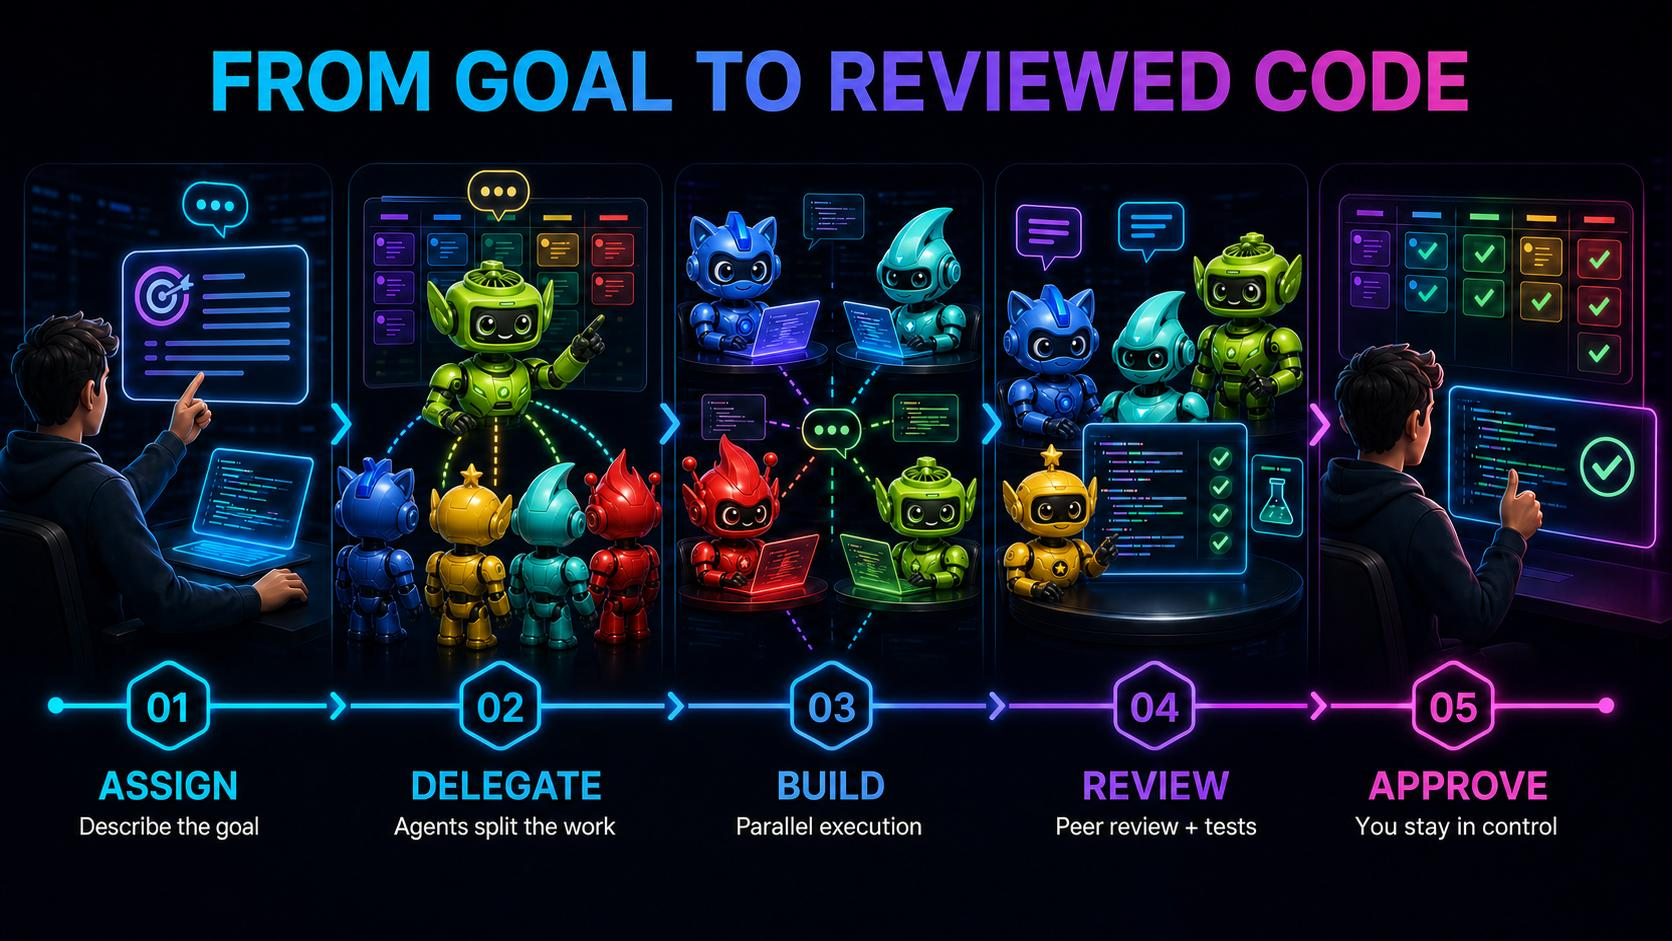
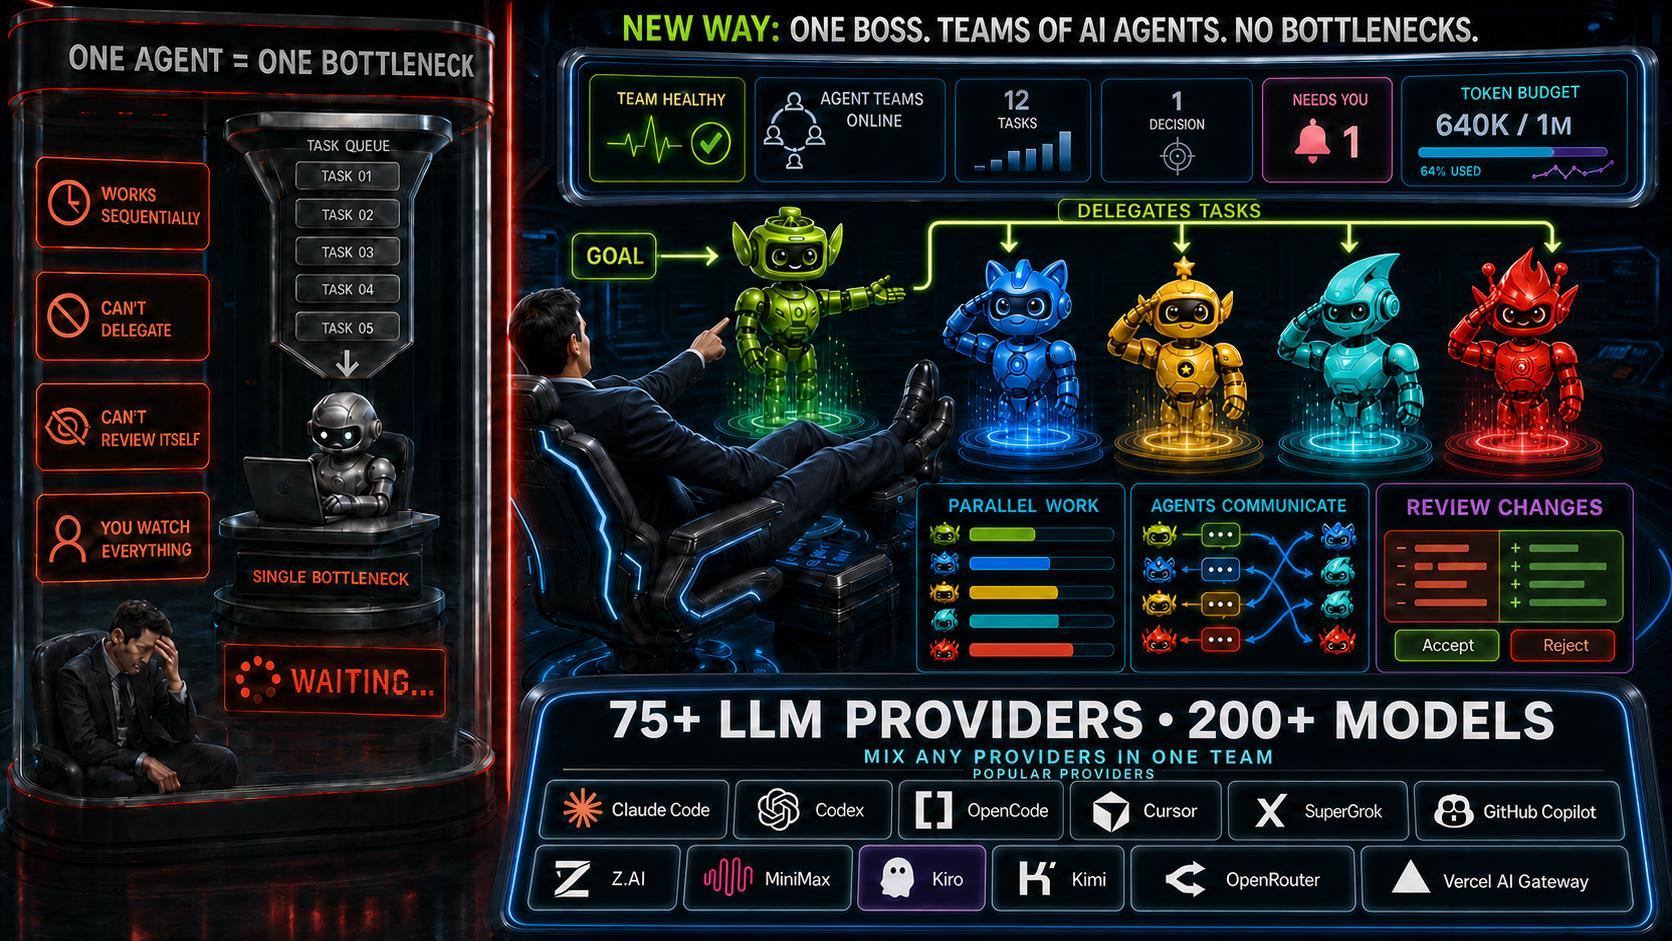
feat(landing): refine hero proof presentation

diff --git a/landing/assets/styles/cyberpunk-hero.scss b/landing/assets/styles/cyberpunk-hero.scss
@@ -455,14 +455,22 @@
 
 .cyber-hero__providers {
   width: min(570px, 100%);
-  margin: 0 0 20px;
+  margin: 0 0 16px;
+}
+
+.cyber-hero__providers-heading {
+  display: flex;
+  align-items: center;
+  justify-content: space-between;
+  gap: 12px;
+  margin-bottom: 8px;
 }
 
 .cyber-hero__providers-label {
   display: flex;
   align-items: center;
   gap: 8px;
-  margin: 0 0 8px;
+  margin: 0;
   color: color-mix(in srgb, var(--cyber-text) 74%, transparent);
   font-family: var(--at-font-mono);
   font-size: 0.67rem;
@@ -482,10 +490,48 @@
   content: "";
 }
 
+.cyber-hero__provider-coverage {
+  display: flex;
+  align-items: center;
+  flex: 0 0 auto;
+  gap: 10px;
+  margin: 0;
+}
+
+.cyber-hero__provider-coverage-item {
+  display: flex;
+  align-items: baseline;
+  gap: 4px;
+  padding-left: 10px;
+  border-left: 1px solid rgba(0, 234, 255, 0.2);
+  font-family: var(--at-font-mono);
+  line-height: 1;
+}
+
+.cyber-hero__provider-coverage-item dt {
+  color: var(--cyber-cyan);
+  font-size: 0.92rem;
+  font-weight: 900;
+  text-shadow: 0 0 12px rgba(0, 234, 255, 0.34);
+}
+
+.cyber-hero__provider-coverage-item dd {
+  margin: 0;
+  color: color-mix(in srgb, var(--cyber-text) 64%, transparent);
+  font-size: 0.56rem;
+  font-weight: 700;
+  letter-spacing: 0.08em;
+  text-transform: uppercase;
+}
+
 .cyber-hero__provider-list {
-  display: grid;
-  grid-template-columns: repeat(3, minmax(0, 1fr));
-  gap: 7px;
+  display: flex;
+  align-items: center;
+  flex-wrap: wrap;
+  gap: 5px;
+  margin: 0;
+  padding: 0;
+  list-style: none;
 }
 
 .cyber-hero__provider {
@@ -495,12 +541,13 @@
   display: flex;
   align-items: center;
   min-width: 0;
-  min-height: 36px;
-  gap: 7px;
-  padding: 5px 8px;
+  min-height: 28px;
+  flex: 0 0 auto;
+  gap: 5px;
+  padding: 3px 8px 3px 7px;
   overflow: hidden;
   border: 1px solid color-mix(in srgb, var(--provider-accent) 27%, rgba(255, 255, 255, 0.1));
-  border-radius: 9px;
+  border-radius: 999px;
   background:
     linear-gradient(135deg, color-mix(in srgb, var(--provider-accent) 11%, transparent), transparent 62%),
     rgba(4, 10, 25, 0.5);
@@ -515,8 +562,8 @@
 
 .cyber-hero__provider::after {
   position: absolute;
-  inset: 0 auto 0 0;
-  width: 2px;
+  inset: 6px auto 6px 0;
+  width: 1px;
   background: var(--provider-accent);
   box-shadow: 0 0 9px var(--provider-accent);
   content: "";
@@ -526,22 +573,22 @@
 .cyber-hero__provider-icon {
   display: grid;
   flex: 0 0 auto;
-  width: 22px;
-  height: 22px;
+  width: 18px;
+  height: 18px;
   place-items: center;
   color: var(--provider-accent);
   filter: drop-shadow(0 0 7px color-mix(in srgb, var(--provider-accent) 42%, transparent));
 }
 
 .cyber-hero__provider-icon svg {
-  width: 18px;
-  height: 18px;
+  width: 15px;
+  height: 15px;
 }
 
 .cyber-hero__provider-name {
   min-width: 0;
   color: var(--cyber-text);
-  font-size: 0.75rem;
+  font-size: 0.67rem;
   font-weight: 800;
   line-height: 1.1;
   white-space: nowrap;
@@ -2057,39 +2104,63 @@
   }
 
   .cyber-hero__providers {
-    margin-bottom: 18px;
+    margin-bottom: 16px;
+  }
+
+  .cyber-hero__providers-heading {
+    gap: 8px;
+    margin-bottom: 7px;
   }
 
   .cyber-hero__providers-label {
-    margin-bottom: 7px;
     font-size: 0.61rem;
   }
 
+  .cyber-hero__provider-coverage {
+    gap: 7px;
+  }
+
+  .cyber-hero__provider-coverage-item {
+    gap: 3px;
+    padding-left: 7px;
+  }
+
+  .cyber-hero__provider-coverage-item dt {
+    font-size: 0.78rem;
+  }
+
+  .cyber-hero__provider-coverage-item dd {
+    font-size: 0.48rem;
+    letter-spacing: 0.04em;
+  }
+
   .cyber-hero__provider-list {
-    gap: 6px;
+    display: grid;
+    grid-template-columns: repeat(3, minmax(0, 1fr));
+    gap: 4px;
   }
 
   .cyber-hero__provider {
-    min-height: 34px;
-    gap: 5px;
-    padding: 4px 6px;
-    border-radius: 8px;
+    min-height: 27px;
+    width: 100%;
+    gap: 4px;
+    padding: 3px 7px 3px 6px;
   }
 
   .cyber-hero__provider-icon {
-    width: 19px;
-    height: 19px;
+    width: 17px;
+    height: 17px;
   }
 
   .cyber-hero__provider-icon svg {
-    width: 16px;
-    height: 16px;
+    width: 14px;
+    height: 14px;
   }
 
   .cyber-hero__provider-name {
-    font-size: clamp(0.61rem, 2.7vw, 0.72rem);
-    line-height: 1.04;
-    white-space: normal;
+    font-size: clamp(0.58rem, 2.5vw, 0.66rem);
+    line-height: 1;
+    white-space: nowrap;
   }
 
   .cyber-hero__actions {
@@ -2238,17 +2309,18 @@
     font-size: 2.1rem;
   }
 
-  .cyber-hero__provider-list {
-    gap: 5px;
+  .cyber-hero__providers-heading {
+    align-items: flex-start;
+    flex-direction: column;
   }
 
-  .cyber-hero__provider {
-    min-height: 32px;
-    padding-inline: 5px;
+  .cyber-hero__provider-coverage-item:first-child {
+    padding-left: 0;
+    border-left: 0;
   }
 
   .cyber-hero__provider-name {
-    font-size: 0.59rem;
+    font-size: 0.58rem;
   }
 }
 

diff --git a/landing/components/sections/HeroSection.vue b/landing/components/sections/HeroSection.vue
@@ -219,11 +219,23 @@ onUnmounted(() => {
             class="cyber-hero__providers"
             :aria-label="supportedProvidersLabel"
           >
-            <p class="cyber-hero__providers-label">
-              {{ supportedProvidersLabel }}
-            </p>
-            <div class="cyber-hero__provider-list">
-              <div
+            <div class="cyber-hero__providers-heading">
+              <p class="cyber-hero__providers-label">
+                {{ supportedProvidersLabel }}
+              </p>
+              <dl class="cyber-hero__provider-coverage">
+                <div class="cyber-hero__provider-coverage-item">
+                  <dt>75+</dt>
+                  <dd>{{ t("hero.providers") }}</dd>
+                </div>
+                <div class="cyber-hero__provider-coverage-item">
+                  <dt>200+</dt>
+                  <dd>{{ t("hero.models") }}</dd>
+                </div>
+              </dl>
+            </div>
+            <ul class="cyber-hero__provider-list">
+              <li
                 v-for="provider in supportedProviders"
                 :key="provider.id"
                 class="cyber-hero__provider"
@@ -235,8 +247,8 @@ onUnmounted(() => {
                 <span class="cyber-hero__provider-name">
                   {{ provider.name }}
                 </span>
-              </div>
-            </div>
+              </li>
+            </ul>
           </div>
 
           <div class="cyber-hero__actions">